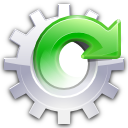
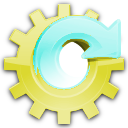
Petite correction sur le QAWSWrapper : la durée d'un titre est maintenant initialisée à "0:00" .
Changement dans les icones du logiciel, plus adaptées au style.

Suppression de l'icone d'artistes inversés, plus utilisée.

Ajout, à la fin de l'actualiser MP3, d'une indication pour signaler la
fin, et la progress bar est maintenant à 100% à la fin.

diff --git a/projet-musique/core/bddsingleton.cpp b/projet-musique/core/bddsingleton.cpp
@@ -4,6 +4,8 @@
 #include <qdebug.h>
 #include <QtSql>
 #include <QDir>
+#include <QFileInfo>
+
 BDDSingleton BDDSingleton::s_singleton;
 
 BDDSingleton::BDDSingleton():
@@ -143,11 +145,32 @@ void BDDSingleton::verifierBDD()
     madatabase.exec("DELETE FROM Titre WHERE Titre = ''");
     madatabase.exec("DELETE FROM Artiste WHERE Artiste = ''");
     madatabase.exec("DELETE FROM Album WHERE Album = ''");
-    madatabase.exec("DELETE FROM Pochette WHERE Chemin = ''");
+
     madatabase.exec("DELETE FROM Relations WHERE Id_Album NOT IN (SELECT DISTINCT Id_Album FROM Album) OR Id_Artiste NOT IN ( SELECT DISTINCT Id_Artiste FROM Artiste) OR Id_Titre NOT IN ( SELECT DISTINCT Id_Titre FROM Titre) OR Id_Pochette NOT IN ( SELECT DISTINCT Id_Pochette From Pochette)");
     madatabase.exec("DELETE FROM Relations WHERE Id_Album NOT IN ( SELECT DISTINCT Id_Album FROM Phys) AND Id_Relation NOT IN ( SELECT DISTINCT Id_Relation FROM MP3) ");
     madatabase.exec("DELETE FROM MP3 WHERE Id_Relation NOT IN (SELECT DISTINCT Id_Relation FROM Relations)");
     madatabase.exec("DELETE FROM Phys WHERE Id_Album NOT IN (SELECT  Id_Album FROM Relations)");
+
+    //Vérification que la pochette existe toujours
+    QString queryStr = "SELECT Id_Pochette, Chemin FROM POCHETTE";
+    QSqlQuery query = madatabase.exec(queryStr);
+    while (query.next() ) {
+        QSqlRecord rec=query.record();
+
+        QString chemin = rec.value("Chemin").toString();
+
+        if ( !QFile::exists( chemin ) )
+        {
+            QString quer = "DELETE FROM Pochette WHERE Id_Pochette= '"+rec.value("Id_Pochette").toString()+"'";
+            madatabase.exec(quer);
+        }
+    }
+    //Pochette non utilisée
+    madatabase.exec("DELETE FROM Pochette WHERE Id_Pochette !=1 AND Id_Pochette NOT IN ( SELECT DISTINCT Id_Pochette FROM Artiste ) AND Id_Pochette NOT IN ( SELECT DISTINCT Id_Pochette FROM Album)" );
+    //Pochette non valide ( pas de chemin)
+    madatabase.exec("DELETE FROM Pochette WHERE Chemin = ''");
+
+
 
 }
 void BDDSingleton::supprimerdossiersvides()

diff --git a/projet-musique/core/mainwindow.cpp b/projet-musique/core/mainwindow.cpp
@@ -52,8 +52,7 @@ void MainWindow::ajouterToolbar()
     essai.load(":/menuIcones/exporter");
     ui->toolBar->addAction(QIcon(essai),"Exporter",this,SLOT(actionExporter()));
 
-    essai.load(":menuIcones/artistesinv");
-    ui->toolBar->addAction(QIcon(essai),"Artistes Inversés",this,SLOT(actionartistesinverses()));
+ ;
 
     essai.load(":menuIcones/bdd");
     ui->toolBar->addAction(QIcon(essai),"Configuration BDD",this,SLOT(actionBDD()));
@@ -141,10 +140,6 @@ void MainWindow::actionExporter()
 BDDAfficherPhys::exporterHTML();
 }
 
-void MainWindow::actionartistesinverses()
-{
-
-}
 
 void MainWindow::actionBDD()
 {
@@ -169,6 +164,8 @@ void MainWindow::changerPourcentage()
 }
 void MainWindow::ActualiserOngletMP3()
 {
+    m_progressbar->setValue(100);
+     m_progressbar->setFormat("%p%");
     m_interaction->setText("Fin de l'actualisation.");
     ui->MP3->vider("Categories");
     ui->MP3->afficherListeType();

diff --git a/projet-musique/core/mainwindow.h b/projet-musique/core/mainwindow.h
@@ -30,11 +30,10 @@ private slots:
     void on_actionViderBDD_triggered();
     void on_actionAjouter_Album_triggered();
     void actionExporter();
-    void actionartistesinverses();
     void actionBDD();
     void actionconfigactu();
     void ViderBDD();
-  void ActualiserOngletStats();
+    void ActualiserOngletStats();
     void changerPourcentage();
     void ActualiserOngletMP3();
     void ActualiserOngletPhys();

diff --git a/projet-musique/QAWSWrapper/QAWSWrapper.cpp b/projet-musique/QAWSWrapper/QAWSWrapper.cpp
@@ -109,6 +109,7 @@ namespace
                         TitresPhys titre;
                         titre.Titre = reader.text().toString();
                         titre.Num_Piste = trackNumber;
+                        titre.Duree="0:00";
                         trackNumber++;
                         albumToFill.titres.append( titre );
                     }
